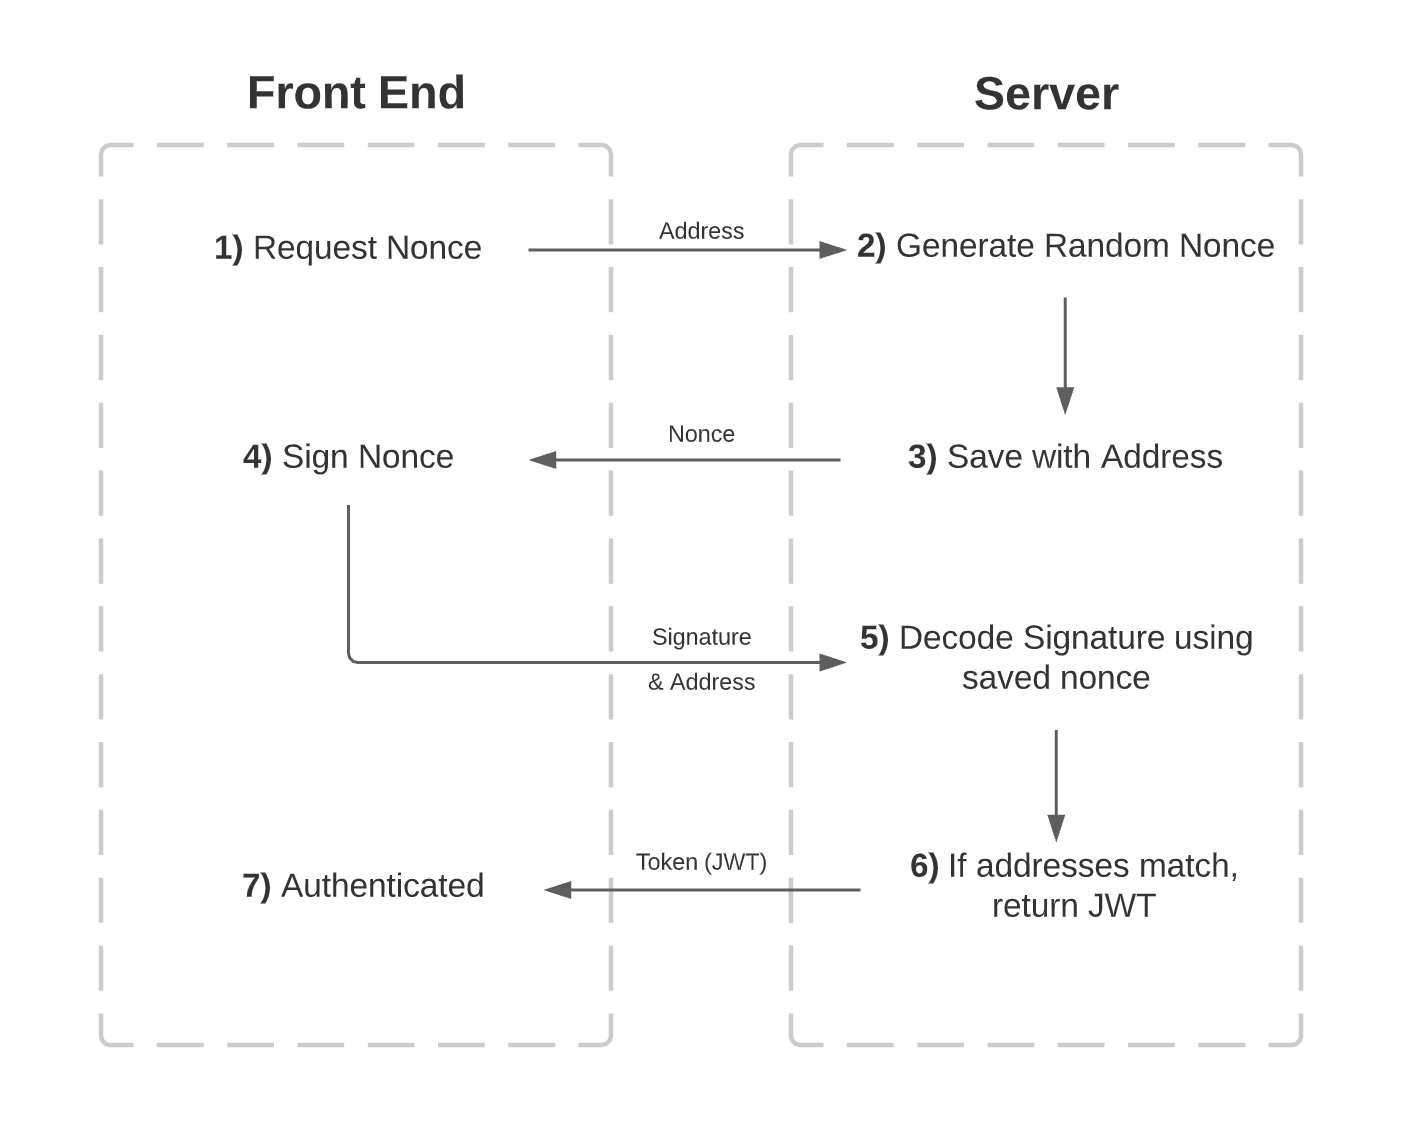
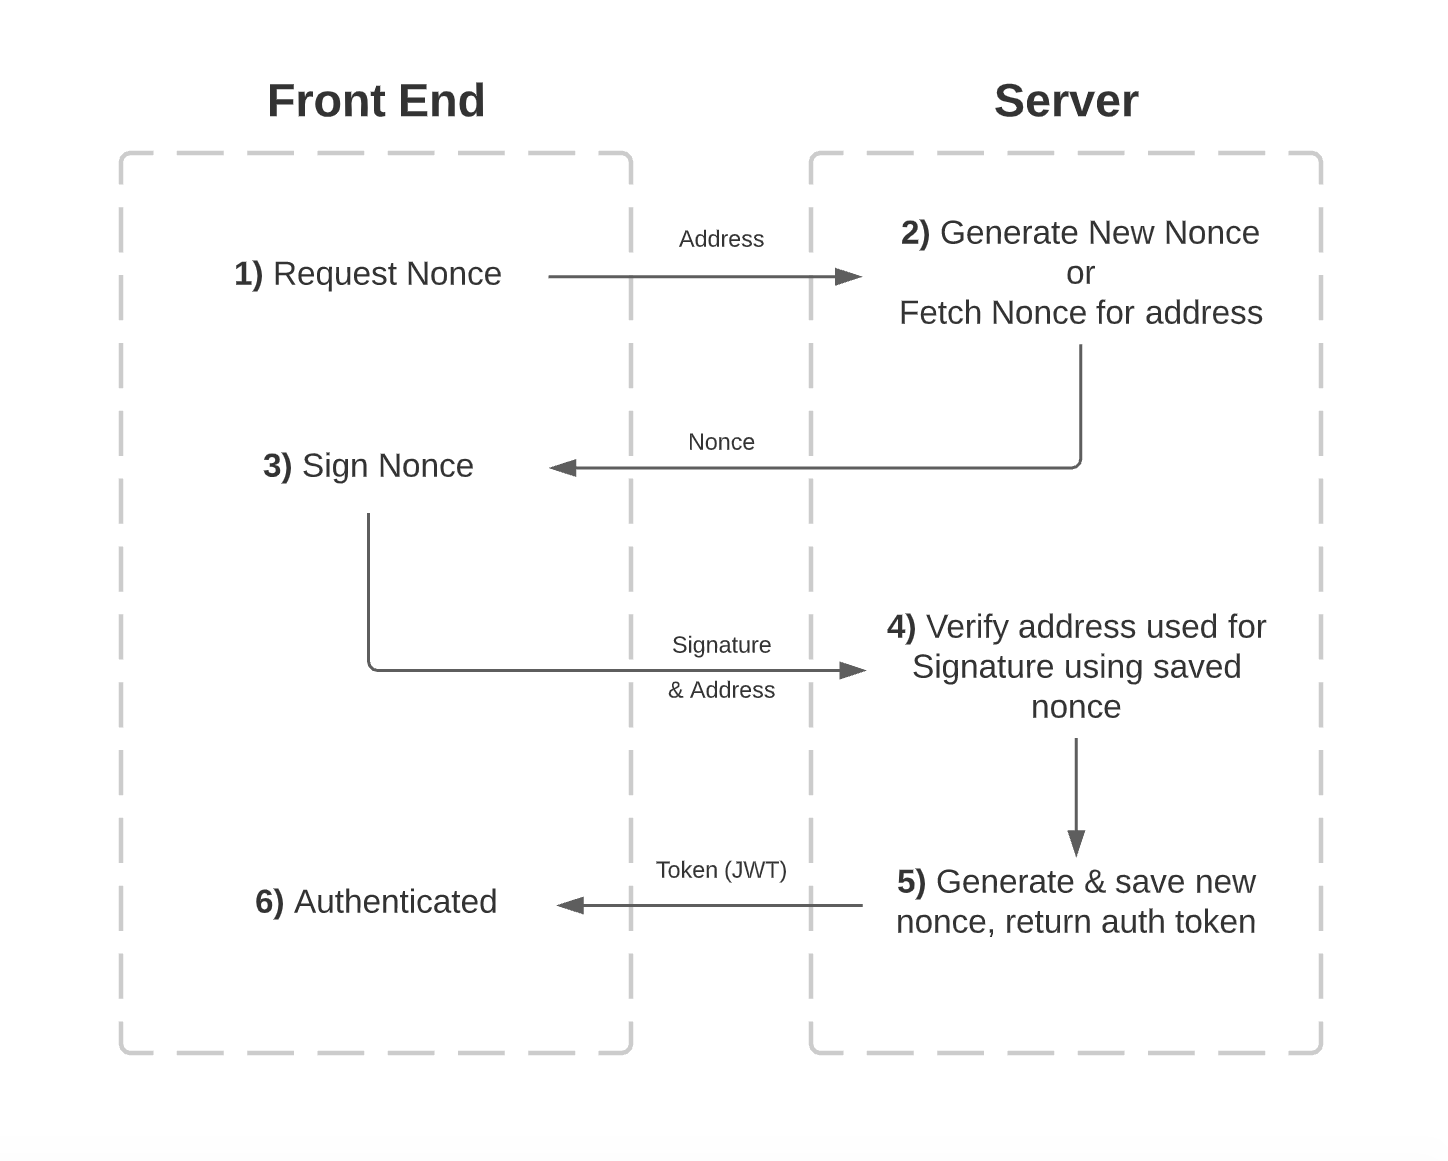
better diagram

diff --git a/src/app/pages/how/how.page.html b/src/app/pages/how/how.page.html
@@ -25,6 +25,12 @@
         <img style="border-radius: 8px;" src="assets/img/diagram1.png" />
         <p>Diagram of private server authentication flow</p>
       </div>
+      <br>
+      <p>
+        Notice that the nonce is updated <i>during</i> the authentication step. 
+        <br>
+        This ensures each valid signature can only be used exactly once.
+      </p>
 
       <br>
       <br>
